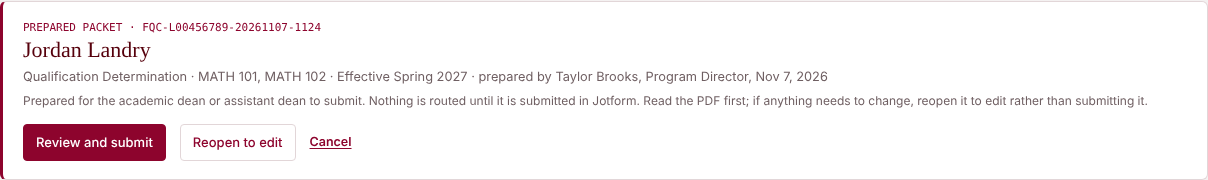
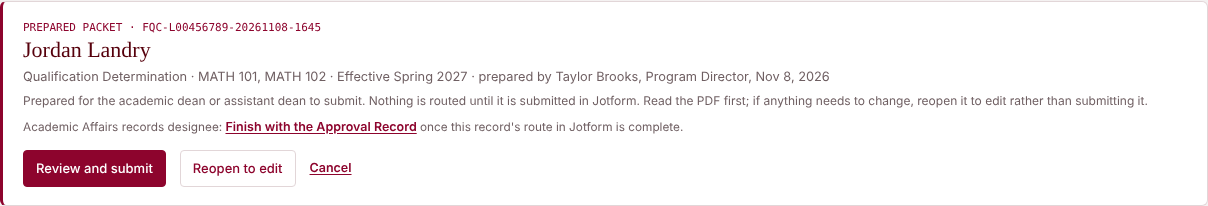
Update the guide for build 2026-11-08b: reconsideration, Check pages, employee ID
New screenshots for Check pages and Request reconsideration, the employee
ID field retaken, and text for Draft 8 timing, Section VI.3 transition
plans, Finish with the Approval Record, CTEC 297, and the preparer on the
workflow emails.

Claude-Session: https://claude.ai/code/session_01J5K1hp7dsuK8zuqV2iWsgJ

Changed region(s): [[0.0, 0.1944, 0.9495, 0.8611], [0.0, 0.1111, 0.2757, 0.1944], [0.0, 0.8889, 0.245, 0.9167]]

diff --git a/index.html b/index.html
@@ -427,7 +427,7 @@ figure.w100 img { width: 100%; }
   <div class="rule"></div>
   <div class="t3 long">Guide for Deans, Assistant Deans, and Program Directors</div>
   <div class="cover-actions screen-only">
-    <span class="updated">Updated November 7, 2026</span>
+    <span class="updated">Updated November 8, 2026</span>
   </div>
   </div>
   <div class="cover-base"><div class="cover-base-in">
@@ -541,7 +541,7 @@ figure.w100 img { width: 100%; }
   <h2>Have these ready</h2>
   <div class="tbl"><table>
     <tr><th>What</th><th>Details</th></tr>
-    <tr><td class="k">The instructor</td><td>First and last name and L-number. Everyone credentialed in the Portal already has an L-number from Human Resources.</td></tr>
+    <tr><td class="k">The instructor</td><td>First and last name and employee ID. Everyone credentialed in the Portal already has one from Human Resources: an L-number, or an H-number for some longtime employees.</td></tr>
     <tr><td class="k">The courses</td><td>Prefix and number for each course, all in one division. Courses in another division go in a separate packet, since each division's dean reviews its own courses (Section V.3).</td></tr>
     <tr><td class="k">Transcripts</td><td>For every institution relied on, degrees and coursework alike. Unofficial copies the instructor sends are enough to make the determination; the official transcripts go to Human Resources (section 9).</td></tr>
     <tr><td class="k">Licenses, certifications, and IBCs</td><td>For technical courses, with current standing and the expiration date.</td></tr>
@@ -561,6 +561,8 @@ figure.w100 img { width: 100%; }
 
   <h2>PDFs only</h2>
   <p>Every attachment must be a PDF. Save photos, scans, and Word documents as PDF first; the Portal refuses anything else and says which file it refused. A password-protected PDF cannot be merged into the packet. The packet lists it, and you attach it beside the packet when you submit.</p>
+  <p>Pages go into the packet reading upright. When a page's text runs sideways or upside down, the Portal turns it and says so under the file. A scan has no text to read, so the Portal says which pages are scans; choose <strong>Check pages</strong> and use <strong>Turn</strong> on any that are sideways. <strong>Undo</strong> puts a page back as it came. The packet's list of documents names the pages turned.</p>
+  <figure class="w75"><img src="shots/21_page_check.png" alt="Attached transcripts with their pages shown small, one turned automatically and a scanned page turned by hand"><figcaption>A transcript turned automatically, and a scan's second page turned by hand.</figcaption></figure>
 
   <h2>Which browser</h2>
   <p>The Portal works in any current browser. Chrome or Edge on a computer is easiest, since attaching files from a phone is awkward.</p>
@@ -603,14 +605,14 @@ figure.w100 img { width: 100%; }
       <dt>Packet</dt><dd>How many documents are attached, and how many items are left before the packet can download.</dd>
     </dl>
   </figure>
-  <p>The label at the foot of the page, <span class="mono">Portal Build 2026-11-07b</span> for example, is also recorded inside every packet and draft, so Academic Affairs can match a packet to the build that made it.</p>
+  <p>The label at the foot of the page, <span class="mono">Portal Build 2026-11-08b</span> for example, is also recorded inside every packet and draft, so Academic Affairs can match a packet to the build that made it.</p>
 </section>
 
 <!-- ============ 5 STEPS ============ -->
 <section class="sec" id="steps">
   <h1><span class="num">5</span>Building a packet, step by step</h1>
   <div class="gold-rule"></div>
-  <p class="lede">The example below follows one instructor, Jordan Landry, with a master's in Mathematics, for MATH 101 and 102. Names and L-numbers in this guide are invented.</p>
+  <p class="lede">The example below follows one instructor, Jordan Landry, with a master's in Mathematics, for MATH 101 and 102. Names and employee IDs in this guide are invented.</p>
 
   <ol class="steps">
     <li><b class="h">Say what is being submitted.</b>Choose <strong>First submission</strong> for anyone without a determination in the Portal, new to the College or already teaching here. <strong>Add courses</strong> and <strong>Remove approved courses</strong> change an instructor's approved courses later (section 11), and <strong>Correct a filed packet</strong> reissues one (section 10). Then choose how far the determination reaches: <strong>One course</strong>, <strong>Several courses</strong> named together, or <strong>All qualifying courses</strong>, where you choose one or more prefixes and the Portal finds every course whose standard the instructor meets.
@@ -619,7 +621,7 @@ figure.w100 img { width: 100%; }
     <li><b class="h">Choose the division and the courses.</b>Click the division, choose a prefix, and click each course. Several courses can come from different prefixes in the same division. Each course carries its pathway in the Matrix (Transfer, Technical, or Developmental), and a course the Matrix does not list is marked <em>Not in the Matrix</em> and cannot be chosen. Below the list, a card for each standard shows the minimum, the qualifying and related fields, the 18-hour route where it applies, and anything required of every instructor.
       <figure class="w75" style="margin-top:6pt"><img src="shots/04_step2.png" alt="Step 2 with MATH 101 and 102 chosen and their standard shown"><figcaption>Step 2. MATH 101 and 102 share one standard, shown in full below the list.</figcaption></figure>
     </li>
-    <li><b class="h">Enter the instructor and the credential.</b>Enter the name, L-number, and effective term (Spring 2027 through Fall 2028; the Winter session belongs to Spring and Maymester to Summer). Answer the dual enrollment and programmatic governance questions. Then choose the highest relevant credential and its field from the list, which offers only the fields the Matrix names for every course chosen. Enter the credential's details as the transcript shows them, and confirm that every institution relied on was recognized. If one has since closed, section 6 says what to attach.
+    <li><b class="h">Enter the instructor and the credential.</b>Enter the name, employee ID, and effective term (Spring 2027 through Fall 2028; the Winter session belongs to Spring and Maymester to Summer). Answer the dual enrollment and programmatic governance questions. Then choose the highest relevant credential and its field from the list, which offers only the fields the Matrix names for every course chosen. Enter the credential's details as the transcript shows them, and confirm that every institution relied on was recognized. If one has since closed, section 6 says what to attach.
       <figure class="w75" style="margin-top:6pt"><img src="shots/05_field_list.png" alt="The field list open, with Applied Mathematics and Mathematics as qualifying fields"><figcaption>The field list. A degree whose field is not listed goes under <em>A field the Matrix does not name for these courses</em>.</figcaption></figure>
       <figure class="w75" style="margin-top:6pt"><img src="shots/06a_step3_instructor.png" alt="Step 3 with the instructor and the master's degree entered"><figcaption>Step 3, the instructor and the credential.</figcaption></figure>
     </li>
@@ -661,7 +663,7 @@ figure.w100 img { width: 100%; }
   <p>For technical coursework only, and only where the Matrix publishes a professional standard. The instructor holds the license or IBC the Matrix names, in good standing and current through the end of the term, with at least the years of documented experience the Matrix sets and recent practice. A vendor's certification counts only for a course that teaches that vendor's product (Section IV). Attach the credential and the experience documentation.</p>
 
   <h2>Required of every instructor</h2>
-  <p>Some courses carry a requirement every instructor must meet, such as a current license or a certification an outside body requires. The Portal asks each one only for the standards the instructor otherwise meets. Answer each <strong>Documented</strong> or <strong>Not documented</strong> (some also offer <strong>Does not apply</strong>). Not documented means the standard is not met. Each one marked Documented adds its document to the list of what to attach.</p>
+  <p>Some courses carry a requirement every instructor must meet, such as a current license or a certification an outside body requires. The Portal asks each one only for the standards the instructor otherwise meets. Answer each <strong>Documented</strong> or <strong>Not documented</strong> (some also offer <strong>Does not apply</strong>). Not documented means the standard is not met. Each one marked Documented adds its document to the list of what to attach. For CTEC 297, name the CTEC course whose content the approved topic covers; what the Matrix requires of every instructor of that course applies to CTEC 297 too.</p>
 
   <h2>Institutions</h2>
   <p>Every institution relied on, for the degree or any coursework counted, must have been accredited by a body recognized by the U.S. Department of Education or CHEA at the time (Section V.2). A degree or coursework earned outside the United States needs a course-by-course evaluation before the determination is final.</p>
@@ -673,7 +675,7 @@ figure.w100 img { width: 100%; }
     <tr><th>Question</th><th>What each answer does</th></tr>
     <tr><td class="k">Are the transcripts attached official?</td><td>Official means received directly from the awarding institution, or from the custodian of a closed institution's records. A copy the instructor sent, or one printed from a student portal, is not.</td></tr>
     <tr><td class="k">Does Human Resources already hold the officials?</td><td><strong>Yes:</strong> the determination is not provisional, and Human Resources confirms the copies against the officials. <strong>No:</strong> it is provisional until the officials arrive. <strong>Not sure:</strong> it is provisional, and the packet asks Human Resources to check its records first.</td></tr>
-    <tr><td class="k">Did the instructor teach these courses for the College before Spring 2027?</td><td>Asked only on a provisional Spring 2027 packet. <strong>Yes:</strong> the officials are due within 60 days under Section VI.3, and the faculty member keeps teaching meanwhile. <strong>No:</strong> they are due 30 calendar days after the first day of class for the first section taught under the determination, which you enter (Section V.2).</td></tr>
+    <tr><td class="k">Did the instructor teach these courses for the College before Spring 2027?</td><td>Asked only on a provisional Spring 2027 packet. <strong>Yes:</strong> the officials are due 60 days after the packet is submitted or after January 1, 2027, whichever is later (Section VI.3), and the faculty member keeps teaching meanwhile. <strong>No:</strong> they are due 30 calendar days after the first day of class for the first section taught under the determination, which you enter (Section V.2).</td></tr>
   </table></div>
   <p>The packet prints the due date. Section 9 explains what happens if the officials are late.</p>
 
@@ -684,7 +686,7 @@ figure.w100 img { width: 100%; }
   <p>When a programmatic accreditor, licensing board, or clinical affiliate sets instructor requirements, the more stringent requirement applies (Section V.1). Name the body and confirm the requirement is documented as met.</p>
 
   <h2>Expedited review</h2>
-  <p>For an unexpected vacancy or other urgent circumstance, request expedited review in Step 4, describe the circumstance, and record whether the AVCI's concurrence was obtained or is requested with the packet. It shortens the timeline and waives nothing (Section V.6). For an exception-based request, a subcommittee acts within three business days, and the full Committee ratifies at its next meeting.</p>
+  <p>For an unexpected vacancy or other urgent circumstance, request expedited review in Step 4, describe the circumstance, and record whether the AVCI's concurrence was obtained or is requested with the packet. It shortens the timeline and waives nothing (Section V.6). For an exception-based request, a subcommittee acts within three business days, and the full Committee ratifies at its next meeting. If the Committee does not ratify an approval, the AVCI records a denial: a section already under way finishes the term, nothing more is assigned under it, and you may request reconsideration.</p>
 </section>
 
 <!-- ============ 7 NOT MET ============ -->
@@ -705,7 +707,8 @@ figure.w100 img { width: 100%; }
   <h2>Exception-based review</h2>
   <p>For named courses only (Sections V.4, V.5). The request needs all six elements: the courses, how the standard is not met, the qualifications relied on, why approval will not diminish the quality of instruction (with any mentoring, supervision, or conditions), the supporting evidence, and the relation to each course's learning outcomes. That last element is written course by course beside the catalog description, with the outcomes pasted from the master course outline or Simple Syllabus. The Portal flags qualifications that read as length of experience alone.</p>
   <figure class="w75"><img src="shots/20_exception_justification.png" alt="The written justification fields of an exception-based request"><figcaption>The written justification. Each course's outcomes and the instructor's preparation for them follow below it.</figcaption></figure>
-  <p>The AVCI seats the Faculty Qualifications Review Committee for the request. The Committee recommends within 10 business days of a complete request, and the AVCI approves, approves with conditions, or denies. An approval covers only the courses in the request and goes on the roster of qualification exceptions (Section V.11). If a request is denied, the dean may request reconsideration from the Vice Chancellor for Academic Affairs and Institutional Effectiveness within 10 business days, with additional documentation (Section V.5).</p>
+  <p>The AVCI seats the Faculty Qualifications Review Committee for the request. The Committee recommends within 10 business days of a complete request, and the AVCI approves, approves with conditions, or denies. An approval covers only the courses in the request and goes on the roster of qualification exceptions (Section V.11). If a request is denied, the dean may request reconsideration from the Vice Chancellor for Academic Affairs and Institutional Effectiveness within 10 business days of the final determination, with additional documentation (Section V.5). Open the request's packet with <strong>Open draft or packet</strong> and choose <strong>Request reconsideration</strong>. Enter the date of the final determination, choose the courses, write why the determination should be reconsidered and what the added documents show, and attach them. The Portal downloads one reconsideration packet, with the denied packet merged behind the documents, and <strong>Submit to the VCAA</strong> opens the reconsideration form with the record filled in. The Vice Chancellor's decision is final.</p>
+  <figure class="w75"><img src="shots/22_reconsideration.png" alt="The reconsideration panel opened from a denied exception-based request"><figcaption>Request reconsideration, opened from the denied request's packet.</figcaption></figure>
   <div class="box key avoid">
     <div class="t">BSN-prepared nurses</div>
     <p>The NURS standard allows a BSN-prepared nurse to teach only under an exception the Louisiana State Board of Nursing approves. The Portal asks for the kind of exception, its dates, and the LSBN approval letter, and the record goes as an exception-based request. Without LSBN's approval, exception-based review is not available.</p>
@@ -715,7 +718,7 @@ figure.w100 img { width: 100%; }
   <p>For one course, when no qualified instructor can be found in time (Section V.7). Name each section by CRN, describe the circumstance, and give a reason for each of the four alternatives the policy lists, for every section. Add the documented basis, the mentor, the acknowledgments, and any prior emergency use. Emergency credentialing is not available for dual enrollment or a programmatically governed course. It remains a request until the AVCI authorizes it, and the Vice Chancellor is notified within three business days. An emergency credential expires at the end of the term the sections are scheduled in and cannot be renewed.</p>
 
   <h2>Transition plans</h2>
-  <p>Only after an exception-based request is not approved, and only for a faculty member who taught the courses for the College before Spring 2027 (Section VI.4). Open the request's packet and choose <strong>Start a transition plan</strong>, offered through Spring 2027. The plan sets out the actions and their completion date, with the dean who monitors it. The faculty member may teach the courses through Spring 2027 and not after unless qualified. Where no qualifying assignment remains, a College employee's contract is not renewed.</p>
+  <p>Only for a faculty member who taught the courses for the College before Spring 2027, in two cases. After an exception-based request is not approved (Section VI.4), open the request's packet and choose <strong>Start a transition plan</strong>. When official transcripts due under Section VI.3 have not arrived by their due date, open that packet and choose <strong>Start a transition plan (Section VI.3)</strong>, after meeting with the faculty member. Both are offered through Spring 2027. The plan sets out the actions and their completion date, with the dean who monitors it. The faculty member may teach the courses through Spring 2027 and not after unless qualified. Where no qualifying assignment remains, a College employee's contract is not renewed.</p>
 </section>
 
 <!-- ============ 8 PREPARE ============ -->
@@ -772,7 +775,7 @@ figure.w100 img { width: 100%; }
   <p class="lede">Each packet becomes one submission in Jotform, and the approval workflow routes it by record type. Every decision and signature is recorded on that submission.</p>
 
   <h2>The approval form</h2>
-  <p>The Portal fills in the record's details. Attach the PDF and check the attestation that it is the file the Portal produced, accurate and complete, then submit. On a provisional record, the form also asks which section the official transcripts are due under. Choose the one the packet prints, Section V.2 or VI.3; the due date comes filled in. A thank-you page then summarizes what happens next.</p>
+  <p>The Portal fills in the record's details. Attach the PDF and check the attestation that it is the file the Portal produced, accurate and complete, then submit. On a provisional record, the due date and the section it falls under (Section V.2 or VI.3) come filled in. A packet a program director prepared also carries the program director's email, so the notices reach them too. A thank-you page then summarizes what happens next.</p>
 
   <h2>The approval route</h2>
   <p>The packet prints its own route in its Approval route section. In outline:</p>
@@ -784,10 +787,10 @@ figure.w100 img { width: 100%; }
     <tr><td class="k">Removal</td><td>The AVCI decides on a section in progress when that applies. Academic Affairs updates the record and sends the instructor written notice.</td></tr>
     <tr><td class="k">Transition plan</td><td>The AVCI establishes the plan with the academic dean.</td></tr>
   </table></div>
-  <p>Every route ends with the Academic Affairs records designee, who adds the signed Approval Record after the report and files the final packet in the Faculty Credentialing library. It is kept for the duration of employment and five years after, and exception records at least through the College's next reaffirmation (Section V.11).</p>
+  <p>Every route ends with the Academic Affairs records designee, who opens the packet in the Portal, adds the signed Approval Record after the report with <strong>Finish with the Approval Record</strong>, and files the final packet in the Faculty Credentialing library. It is kept for the duration of employment and five years after, and exception records at least through the College's next reaffirmation (Section V.11).</p>
 
   <h2>The emails you will receive</h2>
-  <p>Each email goes to the academic dean and the submitter, with the AVCI copied, and replies reach Academic Affairs. The record table in each one names the instructor, the courses, the term, and the record ID.</p>
+  <p>Each email goes to the academic dean and the submitter, and to the program director who prepared the packet, with the AVCI copied, and replies reach Academic Affairs. The record table in each one names the instructor, the courses, the term, and the record ID.</p>
   <div class="tbl"><table>
     <tr><th>Email</th><th>What it means, and what to do</th></tr>
     <tr><td class="k">Approved to teach</td><td>Every official document is on file. Once the Registrar has set the instructor up, assign them as instructor of record. Nothing more is needed.</td></tr>
@@ -806,7 +809,7 @@ figure.w100 img { width: 100%; }
 
   <h2>Official transcripts and holds</h2>
   <p>Official transcripts come directly from the awarding institution to Human Resources; copies from the instructor do not count. When they are late, the instructor may not be assigned to any additional or subsequent section until they arrive (Section V.2). Sections already under way continue through the end of the term. A section in a later term that was already assigned is reassigned unless the transcripts arrive before that term begins.</p>
-  <p>For a faculty member whose officials are due under Section VI.3, Human Resources confirms the day after the due date whether they arrived. If they did not, Human Resources notifies the dean, who meets with the faculty member and may set a transition plan with the AVCI (Section VI.3).</p>
+  <p>For a faculty member whose officials are due under Section VI.3, Human Resources confirms the day after the due date whether they arrived. If they did not, Human Resources notifies the dean and Academic Affairs. The dean meets with the faculty member and may set a transition plan with the AVCI, started from that packet with <strong>Start a transition plan (Section VI.3)</strong>.</p>
 </section>
 
 <!-- ============ 10 RETURNED ============ -->
@@ -871,7 +874,7 @@ figure.w100 img { width: 100%; }
     <dd>No. It runs in your browser and sends nothing on its own. The packet and any drafts are saved only to your computer, and the record reaches Academic Affairs only when the packet is submitted in Jotform.</dd>
 
     <dt>Who can see a filed packet?</dt>
-    <dd>Packets carry L-numbers and transcript copies, so the Faculty Credentialing library is closed to general staff. Ask Academic Affairs for a copy of a filed record.</dd>
+    <dd>Packets carry employee IDs and transcript copies, so the Faculty Credentialing library is closed to general staff. Ask Academic Affairs for a copy of a filed record.</dd>
   </dl>
 </section>
 
@@ -912,7 +915,7 @@ figure.w100 img { width: 100%; }
       <a class="book-btn" href="https://bookings.cloud.microsoft/bookwithme/user/1b384762461c48428e36236a2bc28d64%40bpcc.edu?anonymous&amp;ismsaljsauthenabled=true" target="_blank" rel="noopener"><svg viewBox="0 0 24 24" fill="none" stroke="currentColor" stroke-width="2.2" stroke-linecap="round" stroke-linejoin="round" aria-hidden="true"><rect x="3" y="5" width="18" height="16" rx="2"/><path d="M16 3v4M8 3v4M3 10h18"/></svg>Book time with Dr. Bange</a>
     </div>
   </div>
-  <div class="end">Faculty Qualifications and Credentialing Portal · Guide for Deans, Assistant Deans, and Program Directors · Office of Academic Affairs, Bossier Parish Community College · November 2026. The screenshots show Portal Build 2026-11-07b on an invented record. BPCC is a member of the LCTC System.</div>
+  <div class="end">Faculty Qualifications and Credentialing Portal · Guide for Deans, Assistant Deans, and Program Directors · Office of Academic Affairs, Bossier Parish Community College · November 2026. The screenshots show Portal Build 2026-11-08b on an invented record. BPCC is a member of the LCTC System.</div>
 </section>
 
 </main>

diff --git a/README.md b/README.md
@@ -2,4 +2,4 @@
 
 The guide Bossier Parish Community College's academic deans, assistant deans, and program directors use to prepare and submit faculty qualification determinations in the Faculty Qualifications and Credentialing Portal (https://fqc.joebrownlee.com), and to follow each record through approval in Jotform. It is a static page with its screenshots. It stores nothing and sends nothing.
 
-The screenshots show a sample record with invented names and L-numbers. `index.html` is built from the guide's source, kept by the Office of Academic Affairs with the Portal's source. Edit the source and rebuild rather than editing this file by hand.
+The screenshots show a sample record with invented names and employee IDs. `index.html` is built from the guide's source, kept by the Office of Academic Affairs with the Portal's source. Edit the source and rebuild rather than editing this file by hand.
